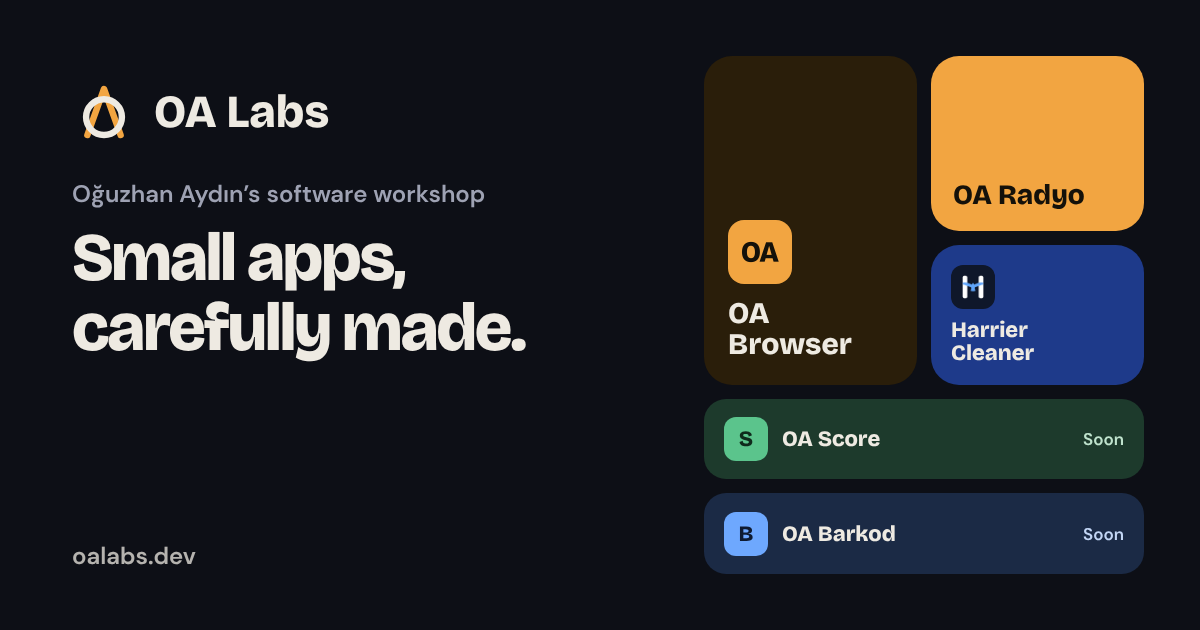
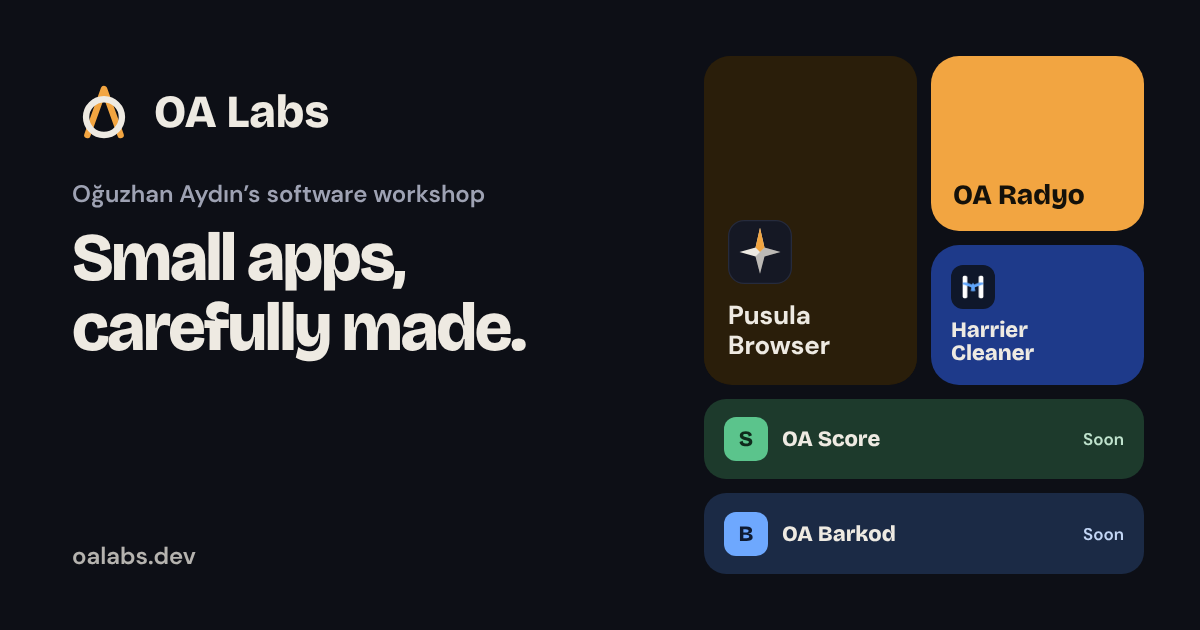
Kişisel site ve paylaşım görselleri: tarayıcının yeni adı Pusula Browser (#18)
Claude-Session: https://claude.ai/code/session_018yh6XdFWqNQaehzKVGnVEc

Changed region(s): [[0.5858, 0.3317, 0.6783, 0.4524], [0.5858, 0.4825, 0.7092, 0.573]]

diff --git a/kisisel/public/index.html b/kisisel/public/index.html
@@ -4,7 +4,7 @@
 <meta charset="utf-8">
 <meta name="viewport" content="width=device-width, initial-scale=1">
 <title>Oğuzhan Aydın — OA Labs</title>
-<meta name="description" content="OA Labs, Oğuzhan Aydın’ın yazılım atölyesi. Ücretsiz ve reklamsız uygulamalar: OA Radyo, OA Tarayıcı ve yakında daha fazlası.">
+<meta name="description" content="OA Labs, Oğuzhan Aydın’ın yazılım atölyesi. Ücretsiz ve reklamsız uygulamalar: OA Radyo, Pusula Browser ve yakında daha fazlası.">
 <meta name="theme-color" content="#07080C">
 <link rel="canonical" href="https://oguzhanaydin.com.tr/">
 <link rel="alternate" hreflang="tr" href="https://oguzhanaydin.com.tr/">
@@ -187,7 +187,7 @@ html{scroll-behavior:smooth}
     </div>
     <div class="app-row">
       <img class="ic" src="/tarayici.png" alt="">
-      <div style="flex: 1 1 280px; min-width: 0"><h3 class="dsp" style="margin: 0; font-size: 28px">OA Tarayıcı <span style="font-family: 'DM Sans', sans-serif; font-size: 14px; font-weight: 600; color: #F2A541; letter-spacing: 0">Yeni · Yayında</span></h3><p style="margin: 4px 0 0; color: #9EA2B3">Hızlı, sade, reklamsız tarayıcı. OA Labs hesabınla bilgisayarın ve telefonun eşitlenir. Windows ve Android.</p></div>
+      <div style="flex: 1 1 280px; min-width: 0"><h3 class="dsp" style="margin: 0; font-size: 28px">Pusula Browser <span style="font-family: 'DM Sans', sans-serif; font-size: 14px; font-weight: 600; color: #F2A541; letter-spacing: 0">Yeni · Yayında</span></h3><p style="margin: 4px 0 0; color: #9EA2B3">Hızlı, sade, reklamsız tarayıcı. OA Labs hesabınla bilgisayarın ve telefonun eşitlenir. Windows ve Android.</p></div>
       <a href="https://oalabs.dev/tarayici/" style="display: inline-flex; align-items: center; height: 46px; padding: 0 20px; border-radius: 23px; border: 1px solid #2A2F43; color: #EEEAE2; text-decoration: none; font-weight: 600; font-size: 15px">İncele</a>
     </div>
     <div class="app-row">

diff --git a/kisisel/public/en/index.html b/kisisel/public/en/index.html
@@ -4,7 +4,7 @@
 <meta charset="utf-8">
 <meta name="viewport" content="width=device-width, initial-scale=1">
 <title>Oğuzhan Aydın — OA Labs</title>
-<meta name="description" content="OA Labs is Oğuzhan Aydın’s software workshop. Free, ad-free apps: OA Radyo, OA Browser and more on the way.">
+<meta name="description" content="OA Labs is Oğuzhan Aydın’s software workshop. Free, ad-free apps: OA Radyo, Pusula Browser and more on the way.">
 <meta name="theme-color" content="#07080C">
 <link rel="canonical" href="https://oguzhanaydin.com.tr/en/">
 <link rel="alternate" hreflang="tr" href="https://oguzhanaydin.com.tr/">
@@ -187,7 +187,7 @@ html{scroll-behavior:smooth}
     </div>
     <div class="app-row">
       <img class="ic" src="/tarayici.png" alt="">
-      <div style="flex: 1 1 280px; min-width: 0"><h3 class="dsp" style="margin: 0; font-size: 28px">OA Browser <span style="font-family: 'DM Sans', sans-serif; font-size: 14px; font-weight: 600; color: #F2A541; letter-spacing: 0">New · Available</span></h3><p style="margin: 4px 0 0; color: #9EA2B3">A fast, clean, ad-free browser. Sign in with your OA Labs account and your PC and phone stay in sync. Windows and Android.</p></div>
+      <div style="flex: 1 1 280px; min-width: 0"><h3 class="dsp" style="margin: 0; font-size: 28px">Pusula Browser <span style="font-family: 'DM Sans', sans-serif; font-size: 14px; font-weight: 600; color: #F2A541; letter-spacing: 0">New · Available</span></h3><p style="margin: 4px 0 0; color: #9EA2B3">A fast, clean, ad-free browser. Sign in with your OA Labs account and your PC and phone stay in sync. Windows and Android.</p></div>
       <a href="https://oalabs.dev/en/tarayici/" style="display: inline-flex; align-items: center; height: 46px; padding: 0 20px; border-radius: 23px; border: 1px solid #2A2F43; color: #EEEAE2; text-decoration: none; font-weight: 600; font-size: 15px">Learn more</a>
     </div>
     <div class="app-row">
